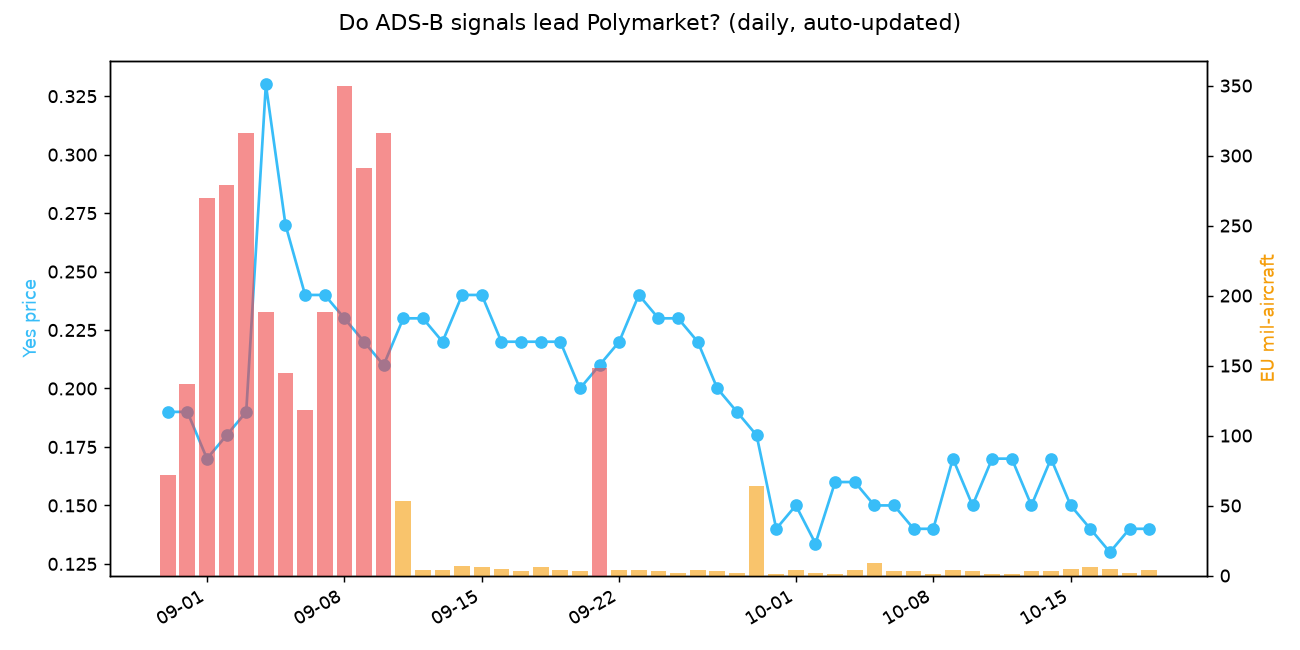
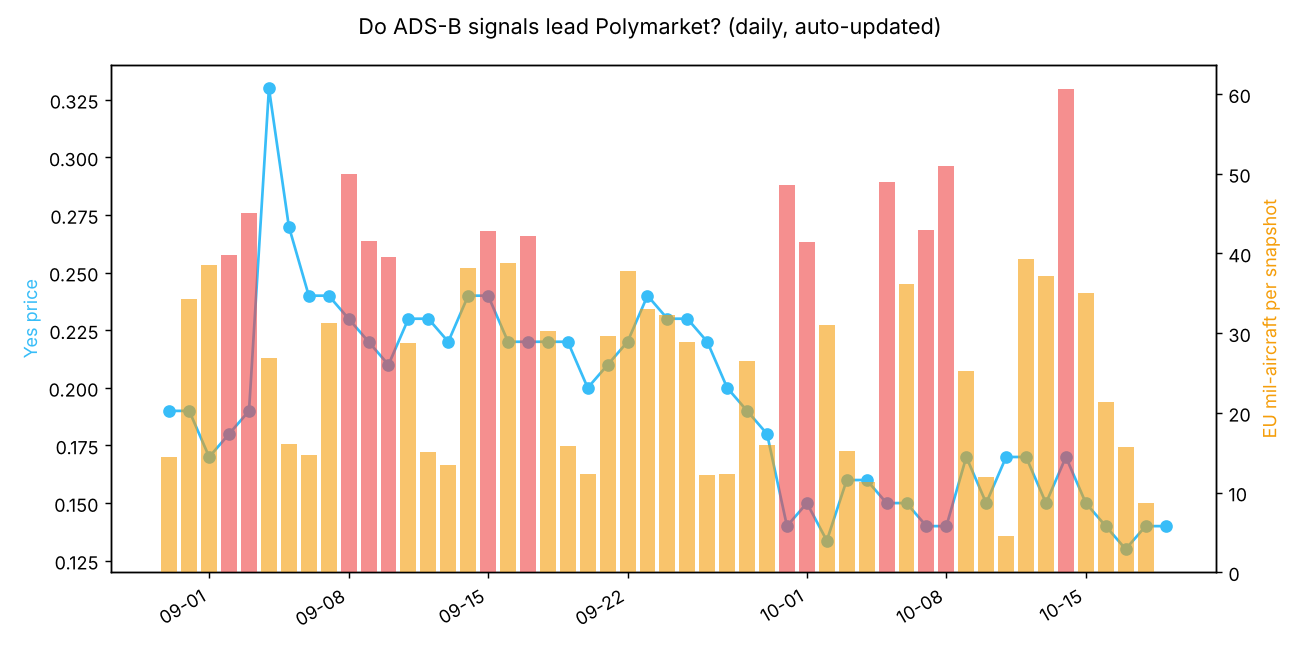
Count only complete days in lead-lag signals
Signal rows were written on the morning run, when the flight archive held
one or two snapshots for that day, and never rebuilt. Every day after
2026-09-11 was undercounted, so the spike/baseline split compared the
backfilled fortnight with everything since. Skip the current UTC day,
add a per-snapshot signal, rebuild old rows once, and note the corrected
result in the README.

Claude-Session: https://claude.ai/code/session_01VYNNFGW3akGyr69zxB4Boc

diff --git a/update.py b/update.py
@@ -19,7 +19,8 @@ Without it, vessel fields are null and everything else still works.
 Boxes: EU (36-60, -12-45), BlackSea air (40-48, 27-43).
 Market rung: highest-volume "December 31, 202" market in the
   russia-x-ukraine-ceasefire-agreement-by event (currently Dec-31-2026).
-Spike = eu_mil at/above 75th percentile of observed days.
+Spike = eu_mil_per_snap at/above 75th percentile of observed days.
+Only complete UTC days are counted (today is skipped until tomorrow).
 """
 from __future__ import annotations
 
@@ -80,7 +81,7 @@ def list_dir(repo: str, path: str, token: str | None) -> list[str]:
 
 
 def flight_day(url: str) -> dict:
-    eu = ti = bs = 0
+    eu = ti = bs = snaps = 0
     for line in get(url).decode("utf-8", "replace").split("\n"):
         line = line.strip()
         if not line:
@@ -90,6 +91,7 @@ def flight_day(url: str) -> dict:
         except json.JSONDecodeError:
             continue
         acs = snap.get("aircraft", snap if isinstance(snap, list) else [])
+        snaps += 1
         for a in acs:
             lat, lng = a.get("lat"), a.get("lng")
             if lat is None or lng is None:
@@ -102,7 +104,11 @@ def flight_day(url: str) -> dict:
                     ti += 1
             if in_box(lat, lng, BS_AIR):
                 bs += 1
-    return {"eu_mil": eu, "eu_tanker_isr": ti, "bs_air": bs}
+    # Snapshot counts vary by day (3-9), so the per-snapshot mean is the
+    # comparable signal; eu_mil stays as the raw sum for continuity.
+    per = round(eu / snaps, 2) if snaps else None
+    return {"eu_mil": eu, "eu_tanker_isr": ti, "bs_air": bs,
+            "snapshots": snaps, "eu_mil_per_snap": per}
 
 
 def vessel_day(repo: str, path: str, token: str) -> dict:
@@ -143,6 +149,9 @@ def vessel_day(repo: str, path: str, token: str) -> dict:
 def update_signals(token: str | None) -> list[str]:
     os.makedirs(SIG_DIR, exist_ok=True)
     days: list[str] = []
+    # Only complete UTC days: a file written mid-day undercounts and was
+    # never revisited (every day after 2026-09-11 read 1-9 aircraft).
+    today = datetime.datetime.now(datetime.timezone.utc).strftime("%Y-%m-%d")
     for mon in ("08", "09", "10", "11", "12"):
         base = f"flight-data/archive/2026/{mon}"
         try:
@@ -156,8 +165,11 @@ def update_signals(token: str | None) -> list[str]:
             continue
         for f in files:
             day = f"2026-{mon}-{f.replace('.jsonl', '')}"
+            if day >= today:
+                continue
             out = os.path.join(SIG_DIR, f"{day}.json")
-            if os.path.exists(out):
+            # Rows written before snapshot counting are rebuilt once.
+            if os.path.exists(out) and "snapshots" in json.load(open(out)):
                 days.append(day)
                 continue
             try:
@@ -248,21 +260,22 @@ def analyze() -> dict:
     closes = sorted(mkt.items())
     moves = {closes[i][0]: abs(closes[i + 1][1] - closes[i][1])
              for i in range(len(closes) - 1)}
-    eu = [r["eu_mil"] for r in rows
-          if isinstance(r.get("eu_mil"), int)]
+    sig = "eu_mil_per_snap"
+    eu = [r[sig] for r in rows if isinstance(r.get(sig), (int, float))]
     thresh = sorted(eu)[int(len(eu) * 0.75)] if eu else 0
     spikes, sm, bm = [], [], []
     for r in rows:
         d = r["date"]
         if d not in moves:
             continue
-        s = isinstance(r.get("eu_mil"), int) and r["eu_mil"] >= thresh
+        s = isinstance(r.get(sig), (int, float)) and r[sig] >= thresh
         (sm if s else bm).append(moves[d])
         if s:
             spikes.append(d)
     res = {
         "updated": datetime.datetime.now(
             datetime.timezone.utc).strftime("%Y-%m-%dT%H:%M:%SZ"),
+        "signal": sig,
         "n_days": len(rows),
         "n comparable": len(sm) + len(bm),
         "spike_threshold": thresh,
@@ -289,11 +302,11 @@ def analyze() -> dict:
     ax1.set_ylabel("Yes price", color="#38bdf8")
     ax2 = ax1.twinx()
     sds = [datetime.datetime.strptime(r["date"], "%Y-%m-%d") for r in rows]
-    ev = [r["eu_mil"] if isinstance(r.get("eu_mil"), int) else 0
+    ev = [r[sig] if isinstance(r.get(sig), (int, float)) else 0
           for r in rows]
     cols = ["#ef4444" if r["date"] in spikes else "#f59e0b" for r in rows]
     ax2.bar(sds, ev, alpha=0.6, color=cols)
-    ax2.set_ylabel("EU mil-aircraft", color="#f59e0b")
+    ax2.set_ylabel("EU mil-aircraft per snapshot", color="#f59e0b")
     ax1.xaxis.set_major_formatter(mdates.DateFormatter("%m-%d"))
     fig.autofmt_xdate()
     fig.suptitle("Do ADS-B signals lead Polymarket? (daily, auto-updated)")

diff --git a/README.md b/README.md
@@ -18,9 +18,19 @@ public except vessel archives, which need a `LEADLAG_PAT` secret
 ## Pilot (2026-09-11, n=9 comparable days)
 
 Spike days Sep 4 + Sep 7. Mean next-day |move|: **0.035 after spikes vs
-0.013 baseline**. Suggestive, not significant — verdict at n=60
-(early November). The Sep 4 coincidence (188 aircraft + 0.19 -> 0.33
-price jump) is the thing to watch.
+0.013 baseline**. Suggestive, not significant.
+
+## Correction (2026-10-19, n=50 comparable days)
+
+Every day after 2026-09-11 had been counted from the first one or two
+snapshots of that day (the row was written on the morning run and never
+revisited), so 12 of 13 "spike days" fell in the backfilled fortnight.
+Rows are now built only for complete UTC days and the signal is aircraft
+per snapshot. Recounted: **0.022 after spikes vs 0.013 baseline**, but a
+permutation test gives p of about 0.14, and the gap disappears within
+weekdays (correlation 0.04): military flying and market moves are both
+simply higher Monday to Friday. No lead yet; the next test needs a
+weekday-adjusted signal.
 
 ## Without the PAT
 
